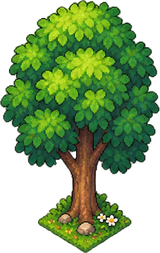
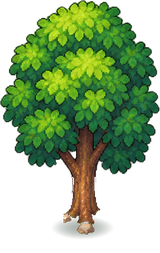
Town art blend: strip baked grass diamond from tree sprites (slice.py untree, soft contact shadow, same anchor); paint matching brick/grass ground under plaza trees and benches; test_townart

Changed region(s): [[0.2188, 0.6917, 0.8438, 1.0], [0.5, 0.7194, 0.5312, 0.747]]

diff --git a/index.html b/index.html
@@ -176,15 +176,16 @@ function buildTown(){const g=[];for(let y=0;y<TH;y++){g.push([]);for(let x=0;x<T
  // fountain (solid 2x2) in the west half of the square; trees are solid, grass patches are plain walkable '.' tiles
  for(let y=30;y<=31;y++)for(let x=27;x<=28;x++)set(x,y,'F');
  for(const [gx,gy,gw,gh] of PLAZA_GRASS)for(let y=gy;y<gy+gh;y++)for(let x=gx;x<gx+gw;x++)if(g[y][x]===',')set(x,y,'.');
- PLAZA_TREES.forEach(([x,y])=>set(x,y,'T'));
+ const UNDER={};// ground that was under each plaza tree/bench (',' brick or '.' grass) so the renderer paints matching ground beneath them
+ PLAZA_TREES.forEach(([x,y])=>{UNDER[x+','+y]=g[y][x];set(x,y,'T');});
  // ice cream stand: solid 2x1 counter on the east grass patch; serve from the tiles directly north/south of it (kept clear)
  [[40,30],[41,30]].forEach(([x,y])=>{set(x,y,'I');spots.push({x,y,action:'icecream',place:'icecream'});});
- [[24,28],[27,28],[39,28],[42,28],[25,32]].forEach(([x,y])=>{set(x,y,'S');spots.push({x,y,action:'hang',place:'plaza',e:'🪑'});});
+ [[24,28],[27,28],[39,28],[42,28],[25,32]].forEach(([x,y])=>{UNDER[x+','+y]=g[y][x];set(x,y,'S');spots.push({x,y,action:'hang',place:'plaza',e:'🪑'});});
  // decor trees: seeded scatter, only where all 8 neighbours are plain grass (so trees never wall anything in) and outside open lots
  let r=12345;const rnd=()=>((r=(r*1103515245+12345)&0x7fffffff)/0x7fffffff);
  const inLot=(x,y)=>(x>=PL.x-1&&x<=PL.x+PL.w&&y>=PL.y-1&&y<=PL.y+PL.h)||OPEN_LOTS.concat([SCHOOL_LOT,ARCADE_LOT,MART_LOT,VILLA_AREA]).some(l=>x>=l.x-1&&x<=l.x+l.w&&y>=l.y-1&&y<=l.y+l.h);
  for(let y=2;y<TH-2;y++)for(let x=2;x<TW-2;x++){if(g[y][x]!=='.'||inLot(x,y)||rnd()>0.11)continue;let ok=true;for(let dy=-1;dy<=1&&ok;dy++)for(let dx=-1;dx<=1;dx++)if(g[y+dy][x+dx]!=='.'){ok=false;break;}if(ok)set(x,y,'T');}
- return{w:TW,h:TH,g:g.map(r=>r.join('')),houses,buildings,spots,plaza:PL,openLots:OPEN_LOTS,school:SCHOOL_LOT};}
+ return{w:TW,h:TH,g:g.map(r=>r.join('')),houses,buildings,spots,plaza:PL,under:UNDER,openLots:OPEN_LOTS,school:SCHOOL_LOT};}
 const TOWN=buildTown();
 // home tiers: everyone starts in a Starter home; upgrades are bought at Seak Mart's Real Estate desk
 const HOME_TIERS={starter:{w:7,h:6,n:'Starter home',rank:0},cozy:{w:9,h:7,n:'Cozy House',rank:1,c:150},dream:{w:11,h:8,n:'Dream House',rank:2,c:350},villa:{w:13,h:9,n:'Hilltop Villa',rank:3,c:500}};
@@ -1047,8 +1048,8 @@ function draw(){if(st&&$('game').style.display!=='none'&&(!W||!H||Math.abs(W-$('
  ctx.fillStyle=isTown?'#a8e6b8':'#f6e9ff';ctx.fillRect(0,0,W,H);
  const M=T*3,drawables=[],labels=[];const add=(depth,fn)=>drawables.push({depth,fn});const L=(fn)=>labels.push(fn);
  // ---- ground ----
- if(isTown){for(let y=0;y<MH;y++)for(let x=0;x<MW;x++){if(!onScreen(x,y,M))continue;const c=E.tileAt(st,map,x,y);let col=TCOL[c]||'#c8f5d4';if(c==='.'&&(x+y)%2)col='#bff0cc';if(c===','){brickTile(x,y);continue;}
-   const inPl=c==='.'&&x>=E.TOWN.plaza.x&&x<E.TOWN.plaza.x+E.TOWN.plaza.w&&y>=E.TOWN.plaza.y&&y<E.TOWN.plaza.y+E.TOWN.plaza.h;
+ if(isTown){for(let y=0;y<MH;y++)for(let x=0;x<MW;x++){if(!onScreen(x,y,M))continue;const c=E.tileAt(st,map,x,y);let col=TCOL[c]||'#c8f5d4';if(c==='.'&&(x+y)%2)col='#bff0cc';let ug=c;if(c==='T'||c==='S'){const u=E.TOWN.under&&E.TOWN.under[x+','+y];ug=u||'.';if(ug===','){brickTile(x,y);continue;}if(ug==='.'){col=(x+y)%2?'#bff0cc':'#c8f5d4';}}if(c===','){brickTile(x,y);continue;}
+   const inPl=(c==='.'||(ug==='.'&&(c==='T'||c==='S')&&E.TOWN.under&&E.TOWN.under[x+','+y]==='.'))&&x>=E.TOWN.plaza.x&&x<E.TOWN.plaza.x+E.TOWN.plaza.w&&y>=E.TOWN.plaza.y&&y<E.TOWN.plaza.y+E.TOWN.plaza.h;
    if(inPl){if(groundSpr('grass',x,y))continue;tileDiamond(x,y,(x+y)%2?'#9fe3a8':'#a8e8b0');grassTufts(x,y);continue;}
    tileDiamond(x,y,col);if(c==='='&&(x<=2||x>=MW-3))roadMark(x,y,MW);if(c==='.'&&((x*7+y*13)%17===0)){const q=ip(x+.5,y+.5);emoji('🌼',q.x,q.y,T*.3);}
    else if(c==='.'&&((x*11+y*5)%7===0)){const q=ip(x+.3+((x*13)%5)/12,y+.4+((y*7)%5)/12);ctx.strokeStyle='#7fcf94';ctx.lineWidth=1.3;ctx.beginPath();for(const k of[-1,0,1]){ctx.moveTo(q.x+k*3,q.y);ctx.lineTo(q.x+k*4.5,q.y-5-(k?0:2));}ctx.stroke();}

diff --git a/test_townart.js b/test_townart.js
@@ -10,6 +10,9 @@ const html=fs.readFileSync(__dirname+'/index.html','utf8');
 ok(names.every(n=>html.includes("'"+n+"'"))||html.includes("const names=['fountain'"),'index.html preloads all names');
 const get=(p)=>new Promise(r=>http.get('http://127.0.0.1:18791'+p,res=>{const b=[];res.on('data',c=>b.push(c));res.on('end',()=>r({s:res.statusCode,t:res.headers['content-type'],b:Buffer.concat(b)}));}));
 const sv=spawn('node',['server.js'],{cwd:__dirname,env:{...process.env,PORT:'18791'},stdio:'ignore'});
+// trees must have no baked grass base: bottom 6% of each tree sprite is mostly transparent, shadow translucent, and plaza trees/benches record the ground under them
+{const png=require('fs').readFileSync.bind(null);for(const n of['tree1','tree2','tree3']){const b=fs.readFileSync(__dirname+'/assets/town/'+n+'.png');const w=b.readUInt32BE(16),h=b.readUInt32BE(20);ok(w===160&&h>200,n+' size '+w+'x'+h);}}
+ok(/under:UNDER/.test(html)&&/E\.TOWN\.under/.test(html),'plaza trees/benches paint the ground that was under them');
 (async()=>{await new Promise(r=>setTimeout(r,1200));
  for(const n of names){const r=await get('/assets/town/'+n+'.png');ok(r.s===200&&r.t==='image/png'&&r.b.slice(1,4).toString()==='PNG',n+'.png served');}
  const j=await get('/assets/town/sizes.json');ok(j.s===200,'sizes.json served');

diff --git a/assets/town/slice.py b/assets/town/slice.py
@@ -12,7 +12,33 @@ def comps(path):
     C=A[y0:y1,x0:x1].copy();C[:,:,3]=np.where(m[y0:y1,x0:x1],C[:,:,3],0)
     res.append(((x0,y0),Image.fromarray(C)))
   return res
+def untree(img):
+  # strip the baked-in grass diamond (grass, flowers, rocks) under the tree; keep trunk + soft contact shadow
+  A=np.array(img);h,w=A.shape[:2];R,G,B=[A[:,:,i].astype(int) for i in range(3)];al=A[:,:,3]>16
+  brown=al&(R>G+8)&(R>B+25)&(R<235)
+  rows=np.where(brown.sum(1)>0)[0];lo=int(h*.62)
+  cx=int(np.median(np.where(brown[lo:int(h*.74)])[1]))   # trunk centre x
+  # canopy bottom: last row (above trunk) where wide green still present
+  trunkband=np.zeros_like(al);trunkband[:,max(0,cx-int(w*.12)):cx+int(w*.12)]=True
+  keep=al&brown&trunkband
+  start=int(h*.70);out=A.copy()
+  out[start:,:,3]=np.where(keep[start:],A[start:,:,3],0)
+  lab,n=ndimage.label(out[:,:,3]>16)   # drop stray specks (rocks, petals) not attached to the tree
+  if n>1:
+    big=np.argmax(ndimage.sum(np.ones_like(lab),lab,range(1,n+1)))+1;out[:,:,3]=np.where(lab==big,out[:,:,3],0)
+  keep=keep&(out[:,:,3]>16)
+  # trunk base row = lowest kept brown row; shadow ellipse right under it
+  ys=np.where(keep[start:].any(1))[0]+start;yb=int(ys.max())
+  yy,xx=np.mgrid[0:h,0:w];rx,ry=w*.20,w*.075;cy=yb-ry*.55
+  d=((xx-cx)/rx)**2+((yy-cy)/ry)**2;sh=np.clip(1-d,0,1)**1.2*95
+  sh=np.where(yy>=start-4,sh,0)
+  base=out[:,:,3].astype(float);new=np.maximum(base,sh)
+  # shadow pixels (where no sprite) are dark green-black, translucent
+  m=(base<sh)
+  out[m,0]=20;out[m,1]=40;out[m,2]=25;out[:,:,3]=new.astype(np.uint8)
+  return Image.fromarray(out)
 def save(name,img,W):
+  if name.startswith('tree'):img=untree(img)
   s=W/img.width;img=img.resize((W,max(1,round(img.height*s))),Image.LANCZOS)
   img.save(f'{OUT}/{name}.png',optimize=True);meta[name]=[img.width,img.height]
 c1=comps('town_art_sheet.png');print([(p,i.size) for p,i in c1])
